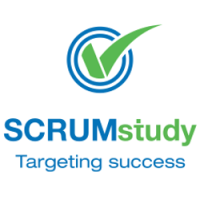
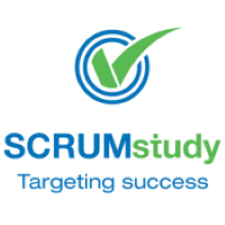
changed images size

diff --git a/css/styles.css b/css/styles.css
@@ -128,9 +128,8 @@ h1 {
   }
   
   .certs li:hover {
-    background: #eee;
+    background: rgb(99, 98, 98);
     cursor: pointer;
-    text-emphasis-color: blue;
   }
   
   .certs a:link {
